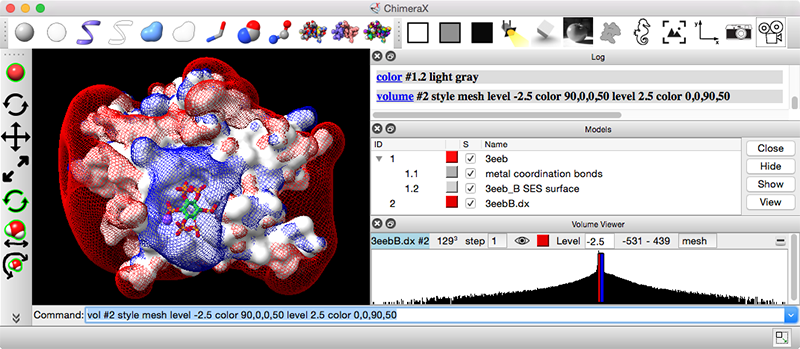
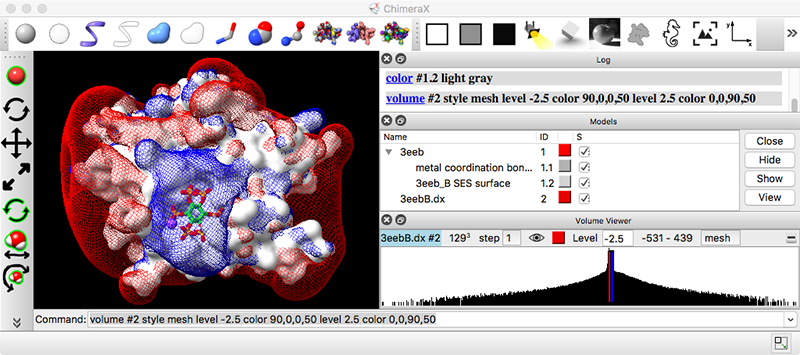
added "toolstart" name anchor to window page, linked to it from various tools; updated Volume Viewer screenshot; "zoom" command new "pixelSize" option and change in behavior to apply specified factor gradually instead of at each frame

diff --git a/docs/user/commands/zoom.html b/docs/user/commands/zoom.html
@@ -25,18 +25,40 @@ class="clRight" title="User Guide Index"/></a>
 
 <h3><a href="../index.html#commands">Command</a>: zoom</h3>
 <h3><a href="usageconventions.html">Usage</a>:
-<BR><b>zoom</b> 
-&nbsp;<i>factor</i> [&nbsp;<i>frames</i>&nbsp;]</h3>
+<br><b>zoom</b> [&nbsp;<i>factor</i>&nbsp;]
+[&nbsp;<b>frames</b>&nbsp;&nbsp;<i>N</i>&nbsp;]
+[&nbsp;<b>pixelSize</b>&nbsp;&nbsp;<i>size</i>&nbsp;]
+</h3>
 <p>
-The <b>zoom</b> command adjusts the apparent size of viewed items
-by <i>factor</i> at each of a specified number of image update <i>frames</i>
-(default <b>1</b> frame). The <i>factor</i> must be positive: 
+The <b>zoom</b> command adjusts the apparent size of viewed items by 
+<i>factor</i> relative to the current display.
+The <i>factor</i> must be positive: 
+</p>
  <ul>
  <li>values &gt; 1 enlarge the view
  <li>values &lt; 1 shrink the view
  </ul>
+<p>
+The change is spread out over a specified number of image update 
+<b>frames</b> <i>N</i> (default <b>1</b>). The apparent size is multiplied
+by an equal value at each frame as needed to achieve the final result.
+</p><p>
+Alternatively or in addition to <i>factor</i>, the <b>pixelSize</b> option
+can be used to specify the absolute scale in length per pixel
+at the current <a href="cofr.html">center of rotation</a>
+(in data coordinate units, typically &Aring;).
+The depth of this point matters when <a href="camera.html">perspective</a>
+is used, because nearby objects appear larger than faraway objects.
+A constant pixel size is useful for making multiple images at the same scale.
+If <i>factor</i> is also given, it is applied after the pixel size
+to calculate the overall (final) amount of zoom.
+</p><p>
+Given without argments, <b>zoom</b> reports the absolute scale
+at the current <a href="cofr.html">center of rotation</a>.
+</p><p>
 Zooming moves the camera toward or away from the scene.
 It does not change model coordinates.
+</p><p>
 See also: <a href="view.html"><b>view</b></a>, 
 <a href="camera.html"><b>camera</b></a>, 
 <a href="mousemode.html"><b>mousemode</b></a>,
@@ -46,5 +68,5 @@ See also: <a href="view.html"><b>view</b></a>,
 
 <hr>
 <address>UCSF Resource for Biocomputing, Visualization, and Informatics / 
-September 2016</address>
+January 2017</address>
 </body></html>

diff --git a/docs/user/window.html b/docs/user/window.html
@@ -14,7 +14,7 @@ or derivations thereof.
 -->
 
 <head>
-<title>ChimeraX Window</title>
+<title>The ChimeraX Window</title>
 <meta http-equiv="Content-Type" content="text/html; charset=utf-8" />
 <link rel="stylesheet" type="text/css" href="userdocs.css" />
 </head><body>
@@ -24,7 +24,7 @@ or derivations thereof.
 <img width="60px" src="ChimeraX-docs-icon.svg" alt="ChimeraX docs icon"
 class="clRight" title="User Guide Index"/></a>
 
-<h3>ChimeraX Window</h3>
+<h2>The ChimeraX Window</h2>
 <a href="crispr.png">
 <img class="outlineCR" width="450px" src="crispr.png" 
 alt="ChimeraX window" title="click to enlarge..."></a>
@@ -52,9 +52,12 @@ interfaces, but may also appear as the result of a
 <a href="index.html#commands">command</a> 
 (for example, <a href="commands/contacts.html"><b>contacts</b></a>
 or <a href="commands/help.html"><b>help</b></a>).
+</p><p>
+<a name="toolstart"></a>
 A tool can be started or shown using the <b>Tools</b> menu and/or
-<b>toolshed</b> command, or by opening a certain type of data
-(for example, opening a density map starts <b>Volume Viewer</b>).
+<b>toolshed</b> command, or by <a href="commands/open.html">opening</a>
+a certain type of data (for example, opening a density map starts 
+<a href="tools/volumeviewer.html"><b>Volume Viewer</b></a>).
 </p><p>
 <a name="panelcontrol"></a>
 A panel can also be:
@@ -82,7 +85,8 @@ its top bar, and an individual tabbed panel can be untabbed
 <font size="+2"><b>*</b></font>for Mac touchpad or single-button mouse,
 Ctrl-click replaces &ldquo;right-click&rdquo; for showing context menus
 <p>
-Icon toolbars and the <a href="tools/cli.html"><b>Command Line</b></a>
+<a href="index.html#tools">Icon toolbars</a>
+and the <a href="tools/cli.html"><b>Command Line</b></a>
 lack their own title bars, but the other methods of control
 are still available.
 The overall window or any undocked panel can be resized by dragging 
@@ -148,5 +152,5 @@ Besides the <b>Help Viewer</b>, other panels with HTML content such as the
 <a href="tools/log.html"><b>Log</b></a> are also displayed appropriately.
 <hr>
 <address>UCSF Resource for Biocomputing, Visualization, and Informatics /
-November 2016</address>
+January 2017</address>
 </body></html> 

diff --git a/docs/user/commands/view.html b/docs/user/commands/view.html
@@ -80,7 +80,7 @@ abut the edges of the graphics window minus a <b>pad</b> <i>fraction</i>
 (allowed values &lt; 1.0, default <b>0.05</b> of the window width and height)
 The desired <i>fraction</i> will usually be positive,
 but negative values can be used to zoom in further.
-The center of rotation is set to a fixed point at the 
+The center of rotation is <a href="cofr.html#method">fixed</a> at the 
 center of the bounding box of the relevant items,
 or if nothing is specified, allowed to vary according to the
 <a href="cofr.html#method">front center method</a>.
@@ -137,5 +137,5 @@ The <b><i>screen coordinate system</i></b> has:
 
 <hr>
 <address>UCSF Resource for Biocomputing, Visualization, and Informatics / 
-December 2016</address>
+January 2017</address>
 </body></html>

diff --git a/docs/user/tools/cli.html b/docs/user/tools/cli.html
@@ -28,7 +28,8 @@ class="clRight" title="User Guide Index"/></a>
 <a href="../index.html#commands">ChimeraX commands</a>
 are entered at the <b>Command Line Interface</b>.
 This interface can be opened from the <b>Tools</b> menu
-(<a href="../window.html">more...</a>).
+(<a href="../window.html#toolstart">more...</a>).
+See also: <a href="../window.html">the ChimeraX window</a>
 </p><p>
 Sometimes it is necessary to click in the graphics window or
 command line to take back focus from some other dialog so that command 

diff --git a/docs/user/tools/log.html b/docs/user/tools/log.html
@@ -30,7 +30,7 @@ that have been executed, with any truncations expanded and
 links to show their help pages.
 The <b>Log</b> also shows messages and other output information.
 Like other tools, this interface can be opened from the <b>Tools</b> menu
-(<a href="../window.html">more...</a>).
+(<a href="../window.html#toolstart">more...</a>).
 </p><p>
 The <a href="../commands/log.html"><b>log</b></a> command performs several
 functions related to the <b>Log</b>, including clearing its contents

diff --git a/docs/user/tools/moldisplay.html b/docs/user/tools/moldisplay.html
@@ -29,7 +29,7 @@ The <b>Molecule Display Toolbar</b> provides a series of icons for
 changing the display of atomic models or their 
 <a href="../selection.html">selected</a> parts with a single click.
 Like other tools, this interface can be opened from the <b>Tools</b> menu
-(<a href="../window.html">more...</a>).
+(<a href="../window.html#toolstart">more...</a>).
 See also:
 <a href="graphics.html"><b>Graphics Toolbar</b></a>,
 <a href="densitymaps.html"><b>Density Map Toolbar</b></a>,

diff --git a/docs/user/tools/graphics.html b/docs/user/tools/graphics.html
@@ -28,7 +28,7 @@ class="clRight" title="User Guide Index"/></a>
 The <b>Graphics Toolbar</b> provides a series of icons for adjusting
 or acting on the overall display with a single click.
 Like other tools, this interface can be opened from the <b>Tools</b> menu
-(<a href="../window.html">more...</a>).
+(<a href="../window.html#toolstart">more...</a>).
 See also:
 <a href="moldisplay.html"><b>Molecule Display Toolbar</b></a>,
 <a href="densitymaps.html"><b>Density Map Toolbar</b></a>,

diff --git a/docs/user/tools/densitymaps.html b/docs/user/tools/densitymaps.html
@@ -29,7 +29,7 @@ The <b>Density Map Toolbar</b> provides a series of icons for
 changing the display of volume models (such as density maps)
 with a single click.
 Like other tools, this interface can be opened from the <b>Tools</b> menu
-(<a href="../window.html">more...</a>).
+(<a href="../window.html#toolstart">more...</a>).
 See also:
 <a href="graphics.html"><b>Graphics Toolbar</b></a>,
 <a href="moldisplay.html"><b>Molecule Display Toolbar</b></a>,

diff --git a/docs/user/tools/mousemodes.html b/docs/user/tools/mousemodes.html
@@ -29,7 +29,7 @@ The <b>Mouse Modes for Right Button</b> toolbar
 provides a series of icons for changing the assignment of the 
 right mouse button with a single click.
 Like other tools, this interface can be opened from the <b>Tools</b> menu
-(<a href="../window.html">more...</a>).
+(<a href="../window.html#toolstart">more...</a>).
 </p><p>
 With the related
 <a href="../commands/mousemode.html"><b>mousemode</b></a> command,

diff --git a/docs/user/tools/sideview.html b/docs/user/tools/sideview.html
@@ -36,7 +36,7 @@ See also: <a href="../commands/clip.html"><b>clip</b></a>,
 <a href="../commands/camera.html"><b>camera</b></a>
 </p><p>
 Like other tools, this interface can be opened from the <b>Tools</b> menu
-(<a href="../window.html">more...</a>).
+(<a href="../window.html#toolstart">more...</a>).
 </p>
 <ul>
 <li>The square on the left represents the viewer's <b>eye position</b>. 

diff --git a/docs/user/tools/volumeviewer.html b/docs/user/tools/volumeviewer.html
@@ -55,7 +55,7 @@ See also:
 <a href="../commands/sop.html"><b>sop</b></a>
 </p><p>
 The <b>Volume Viewer</b> window can be manipulated
-like other panels in ChimeraX (<a href="../window.html">more...</a>).
+like other panels in ChimeraX (<a href="../window.html#toolstart">more...</a>).
 </p><p>
 By default, a data set will be displayed automatically if it does not
 exceed a certain size
